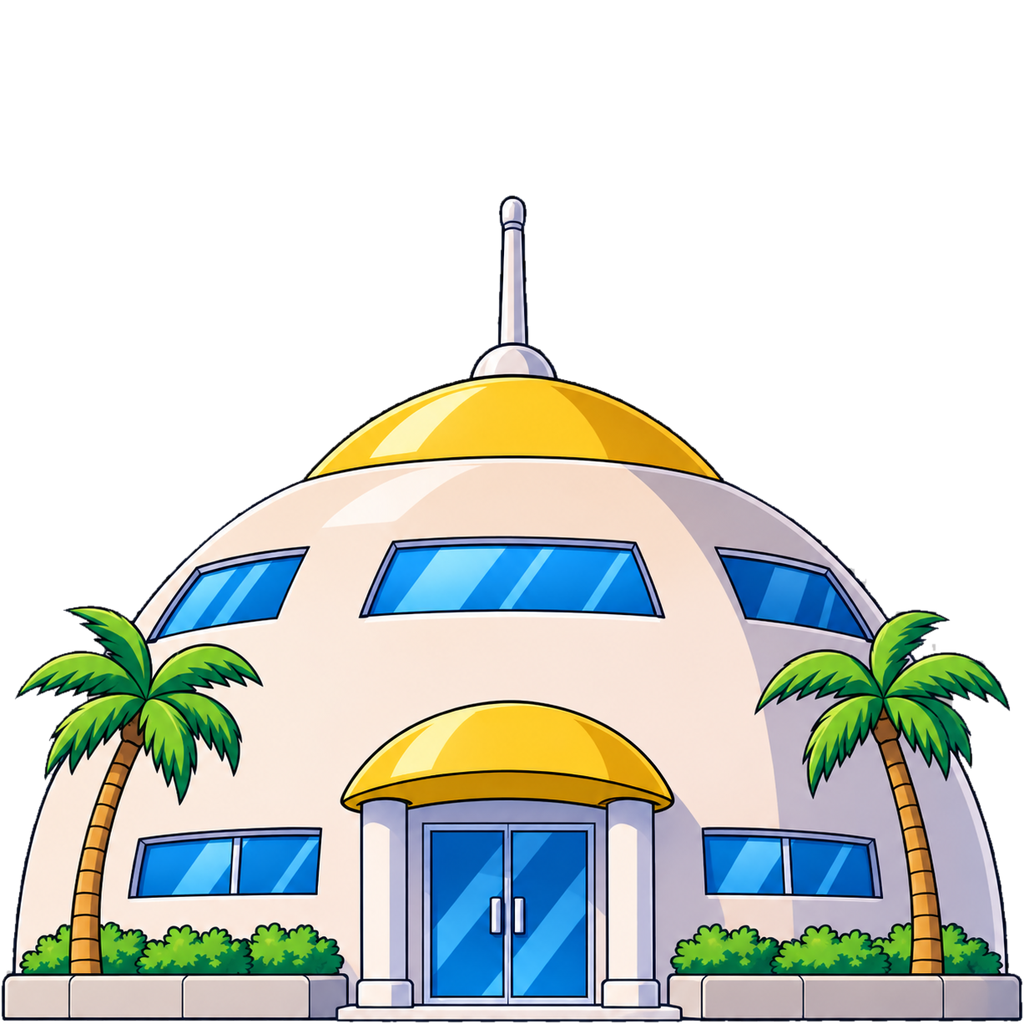
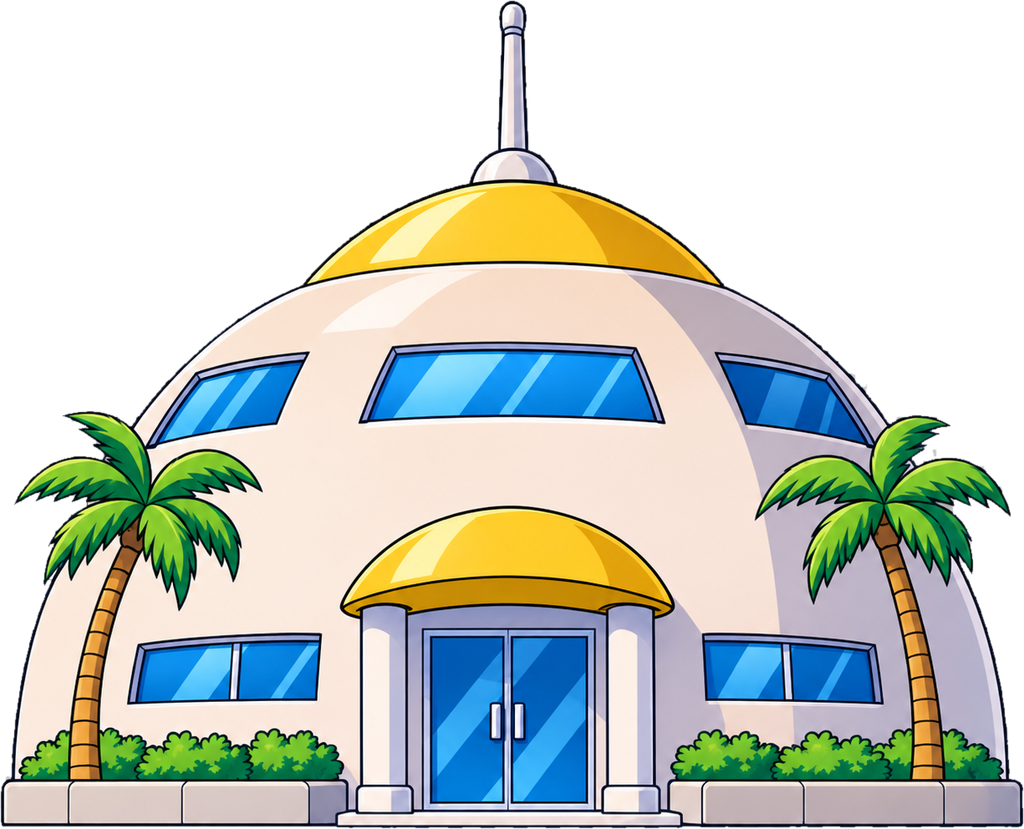
Hover-bike run: the owner's apartments as building 3; pictures keep their proportions
Roadside pictures are trimmed to the building instead of padded to a square,
and each building slot stands at its own width (GameConfig), so a tall
apartment block comes out taller than the dome and the shop.

Claude-Session: https://claude.ai/code/session_01RaZEpvpEyJtuTcNmQxKCJD

diff --git a/app/src/main/java/com/saiyanhabits/ui/games/HoverBikeScene.kt b/app/src/main/java/com/saiyanhabits/ui/games/HoverBikeScene.kt
@@ -96,10 +96,14 @@ class HoverBikeWorld(private val art: Map<ArtKey, ByteArray> = emptyMap()) {
     private fun cutOuts(keys: List<ArtKey>, count: Int, width: Float? = null, height: Float? = null): List<Pool> =
         keys.mapNotNull { key -> art[key]?.let { billboardGlb(it, width, height) }?.let { Pool(key.key, count, it) } }
 
-    private val cutOutBuildings = cutOuts(ArtKey.bikeBuildings, 8, width = GameConfig.BIKE_CUTOUT_BUILDING_WIDTH)
+    /** Building pictures with how wide each stands, in metres. */
+    private val cutOutBuildings: List<Pair<Pool, Float>> = ArtKey.bikeBuildings.mapIndexedNotNull { i, key ->
+        val width = GameConfig.BIKE_CUTOUT_BUILDING_WIDTHS.getOrElse(i) { 16f }
+        art[key]?.let { billboardGlb(it, width = width) }?.let { Pool(key.key, 8, it) to width }
+    }
 
     private val all = listOf(road, pavement, ground, bike, rider, robot, barrier, cone, ball, boost, lights, padCar, padTruck) +
-        cars + trucks + buildings + palms + cutOutBuildings
+        cars + trucks + buildings + palms + cutOutBuildings.map { it.first }
 
     /** False when a 2D rider is drawn over the scene instead of the 3D bike and rider. */
     var showModelRider = true
@@ -168,8 +172,8 @@ class HoverBikeWorld(private val art: Map<ArtKey, ByteArray> = emptyMap()) {
                 val h = hash(b, side)
                 if (cutOutBuildings.isNotEmpty()) {
                     // Pictures stand near the pavement, turned partly towards the road so you see their fronts.
-                    val pool = cutOutBuildings[Math.floorMod(h, cutOutBuildings.size)]
-                    val x = side * (half + 4.4f + GameConfig.BIKE_CUTOUT_BUILDING_WIDTH * 0.42f + Math.floorMod(h ushr 4, 3))
+                    val (pool, width) = cutOutBuildings[Math.floorMod(h, cutOutBuildings.size)]
+                    val x = side * (half + 4.4f + width * 0.42f + Math.floorMod(h ushr 4, 3))
                     val angle = GameConfig.BIKE_CUTOUT_BUILDING_ANGLE
                     place(pool, x, 0f, -ahead, yaw = if (side < 0) angle else -angle)
                 } else {

diff --git a/app/src/test/java/com/saiyanhabits/art/ArtManifestTest.kt b/app/src/test/java/com/saiyanhabits/art/ArtManifestTest.kt
@@ -45,8 +45,14 @@ class ArtManifestTest {
             val header = ByteBuffer.wrap(bytes, 16, 8)
             val width = header.int
             val height = header.int
-            assertEquals("${key.key} width", key.width, width)
-            assertEquals("${key.key} height", key.height, height)
+            if (key.optional) {
+                // Roadside pictures keep their own proportions, fitted inside the recommended box.
+                assertTrue("${key.key} is ${width} x ${height}, larger than ${key.width} x ${key.height}", width <= key.width && height <= key.height)
+                assertTrue("${key.key} should fill its box on one side", width == key.width || height == key.height)
+            } else {
+                assertEquals("${key.key} width", key.width, width)
+                assertEquals("${key.key} height", key.height, height)
+            }
         }
     }
 

diff --git a/app/src/main/java/com/saiyanhabits/GameConfig.kt b/app/src/main/java/com/saiyanhabits/GameConfig.kt
@@ -235,8 +235,11 @@ object GameConfig {
     /** Hover-bike run: how far the skyline slides per metre the bike moves sideways, as a share of the screen width. */
     const val BIKE_SKYLINE_PARALLAX = 0.012f
 
-    /** Hover-bike run: how wide a roadside building picture stands, in metres. */
-    const val BIKE_CUTOUT_BUILDING_WIDTH = 16f
+    /**
+     * Hover-bike run: how wide each roadside building picture stands, in metres, by slot
+     * (dome, shop, apartments, the fourth); its height follows the picture's proportions.
+     */
+    val BIKE_CUTOUT_BUILDING_WIDTHS = floatArrayOf(18f, 14f, 17f, 16f)
 
     /** Hover-bike run: how far building pictures are turned from facing down the road towards it, in degrees. */
     const val BIKE_CUTOUT_BUILDING_ANGLE = 35f

diff --git a/tools/placeholder_art.py b/tools/placeholder_art.py
@@ -70,7 +70,7 @@ KEYS = [
 # Optional images: no placeholder is made, and the game draws something else until one is
 # supplied. key, used for, width, height, shown as.
 OPTIONAL = [
-    *[(f"bike_building_{n}", f"The hover-bike run: a roadside building, front or three-quarter view, standing on the bottom edge, transparent around it. Stood beside the road about 16 m wide, angled towards you. Until set, the 3D buildings are used.", 1024, 1024, "free") for n in range(1, 5)],
+    *[(f"bike_building_{n}", f"The hover-bike run: a roadside building, front or three-quarter view, standing on the bottom edge, transparent around it. Stood beside the road angled towards you; how wide it stands is set per slot in GameConfig (dome 18 m, shop 14 m, apartments 17 m, fourth 16 m) and its height follows the picture. Trimmed to the building, keeping its proportions. Until set, the 3D buildings are used.", 1024, 1024, "free") for n in range(1, 5)],
     *[(f"bike_car_{n}", "The hover-bike run: a hover car seen from behind, on a transparent background, its underside on the bottom edge. Floats over the road about 2.3 m wide; the game adds the shadow. Until set, the 3D cars are used.", 512, 512, "free") for n in range(1, 4)],
     ("bike_palm", "The hover-bike run: a palm tree, trunk foot on the bottom edge, transparent around it. About 8 m tall beside the road. Until set, the 3D palms are used.", 512, 1024, "free"),
     *[(f"bike_person_{n}", "The hover-bike run: someone standing or walking on the pavement, feet on the bottom edge, transparent around them. About 1.75 m tall; just scenery, you can't hit them. Until set, there are no pedestrians.", 256, 512, "free") for n in range(1, 3)],

diff --git a/ART_LIST.md b/ART_LIST.md
@@ -35,10 +35,10 @@ centred. "Free" images are shown whole on a transparent background.
 | `bike_rider` | `bike_rider.png` | The hover-bike run: the rider on the bike, seen from behind, on a transparent background. Drawn over the 3D road, following the steering and tilting into turns; put the bottom of the bike on the bottom edge and keep it centred. The placeholder is a plain stand-in rider. | 768 × 768 | free |
 | `bike_skyline` | `bike_skyline.png` | The hover-bike run: the city far away, behind the 3D street. A wide strip (4:1) with the horizon on the bottom edge; it is shown about 1.3 screens wide and slides a little as you steer, so keep the middle the busiest part. The sky above it is filled with a gradient matched to its top edge. | 2048 × 512 | free |
 | `app_icon` | `app_icon.png` | The launcher icon's foreground. Android shows the middle 288 x 288 and crops the edges. Swapped by file and rebuild only. | 432 × 432 | icon |
-| `bike_building_1` | `bike_building_1.png` | The hover-bike run: a roadside building, front or three-quarter view, standing on the bottom edge, transparent around it. Stood beside the road about 16 m wide, angled towards you. Until set, the 3D buildings are used. | 1024 × 1024 | free, optional |
-| `bike_building_2` | `bike_building_2.png` | The hover-bike run: a roadside building, front or three-quarter view, standing on the bottom edge, transparent around it. Stood beside the road about 16 m wide, angled towards you. Until set, the 3D buildings are used. | 1024 × 1024 | free, optional |
-| `bike_building_3` | `bike_building_3.png` *(none yet)* | The hover-bike run: a roadside building, front or three-quarter view, standing on the bottom edge, transparent around it. Stood beside the road about 16 m wide, angled towards you. Until set, the 3D buildings are used. | 1024 × 1024 | free, optional |
-| `bike_building_4` | `bike_building_4.png` *(none yet)* | The hover-bike run: a roadside building, front or three-quarter view, standing on the bottom edge, transparent around it. Stood beside the road about 16 m wide, angled towards you. Until set, the 3D buildings are used. | 1024 × 1024 | free, optional |
+| `bike_building_1` | `bike_building_1.png` | The hover-bike run: a roadside building, front or three-quarter view, standing on the bottom edge, transparent around it. Stood beside the road angled towards you; how wide it stands is set per slot in GameConfig (dome 18 m, shop 14 m, apartments 17 m, fourth 16 m) and its height follows the picture. Trimmed to the building, keeping its proportions. Until set, the 3D buildings are used. | 1024 × 1024 | free, optional |
+| `bike_building_2` | `bike_building_2.png` | The hover-bike run: a roadside building, front or three-quarter view, standing on the bottom edge, transparent around it. Stood beside the road angled towards you; how wide it stands is set per slot in GameConfig (dome 18 m, shop 14 m, apartments 17 m, fourth 16 m) and its height follows the picture. Trimmed to the building, keeping its proportions. Until set, the 3D buildings are used. | 1024 × 1024 | free, optional |
+| `bike_building_3` | `bike_building_3.png` | The hover-bike run: a roadside building, front or three-quarter view, standing on the bottom edge, transparent around it. Stood beside the road angled towards you; how wide it stands is set per slot in GameConfig (dome 18 m, shop 14 m, apartments 17 m, fourth 16 m) and its height follows the picture. Trimmed to the building, keeping its proportions. Until set, the 3D buildings are used. | 1024 × 1024 | free, optional |
+| `bike_building_4` | `bike_building_4.png` *(none yet)* | The hover-bike run: a roadside building, front or three-quarter view, standing on the bottom edge, transparent around it. Stood beside the road angled towards you; how wide it stands is set per slot in GameConfig (dome 18 m, shop 14 m, apartments 17 m, fourth 16 m) and its height follows the picture. Trimmed to the building, keeping its proportions. Until set, the 3D buildings are used. | 1024 × 1024 | free, optional |
 | `bike_car_1` | `bike_car_1.png` *(none yet)* | The hover-bike run: a hover car seen from behind, on a transparent background, its underside on the bottom edge. Floats over the road about 2.3 m wide; the game adds the shadow. Until set, the 3D cars are used. | 512 × 512 | free, optional |
 | `bike_car_2` | `bike_car_2.png` *(none yet)* | The hover-bike run: a hover car seen from behind, on a transparent background, its underside on the bottom edge. Floats over the road about 2.3 m wide; the game adds the shadow. Until set, the 3D cars are used. | 512 × 512 | free, optional |
 | `bike_car_3` | `bike_car_3.png` *(none yet)* | The hover-bike run: a hover car seen from behind, on a transparent background, its underside on the bottom edge. Floats over the road about 2.3 m wide; the game adds the shadow. Until set, the 3D cars are used. | 512 × 512 | free, optional |
